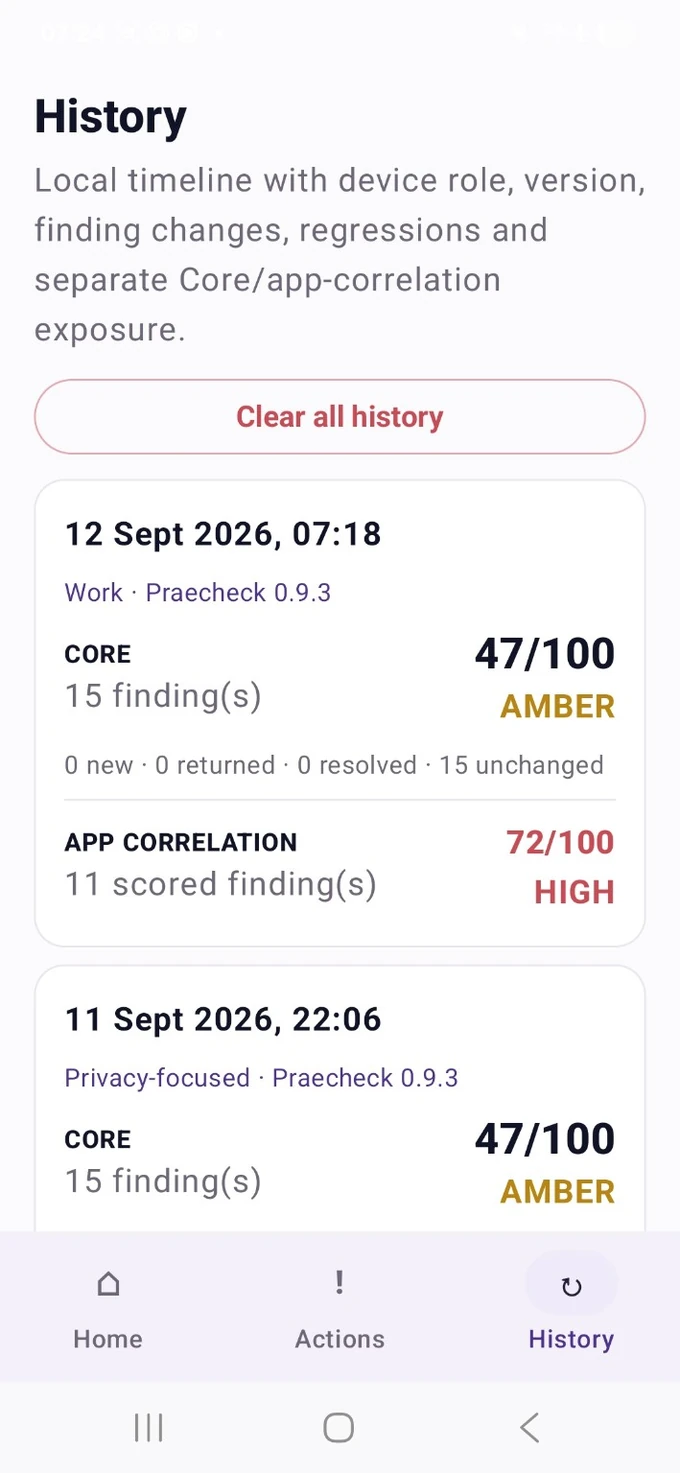
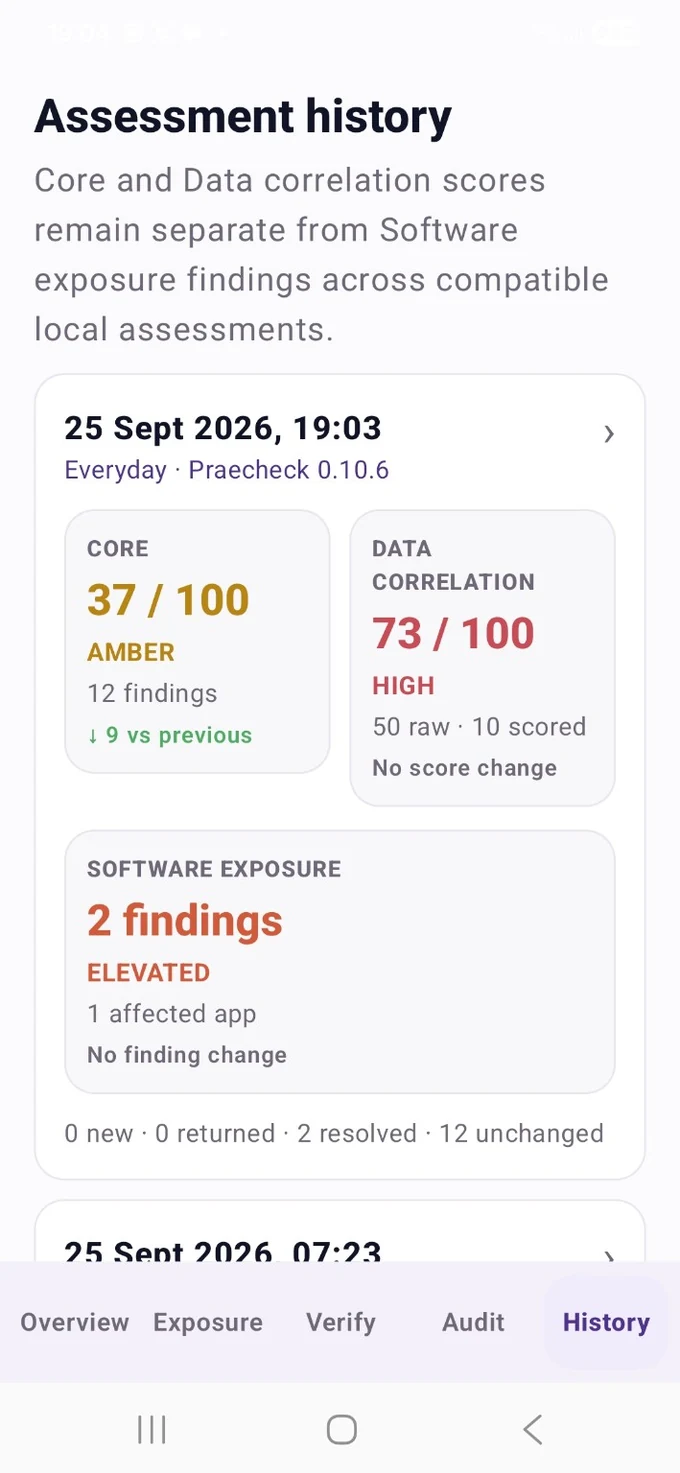
Refresh site for Praecheck v0.10.6

diff --git a/index.html b/index.html
@@ -4,7 +4,7 @@
   <meta charset="utf-8">
   <meta name="viewport" content="width=device-width,initial-scale=1">
   <title>Praecheck — Android data exposure assessment</title>
-  <meta name="description" content="See beyond permissions with Praecheck: offline Android assessment of current exposure, data-correlation potential and known embedded software risks.">
+  <meta name="description" content="See beyond permissions with Praecheck: offline Android assessment of current exposure, data-correlation potential and software exposure context.">
   <meta name="theme-color" content="#111426">
   <link rel="icon" href="favicon.svg" type="image/svg+xml">
   <link rel="stylesheet" href="styles.css">
@@ -69,8 +69,8 @@
 <div class="hero-copy">
 <div class="eyebrow">Offline Android data-exposure assessment</div>
 <h1>See beyond <span>permissions.</span></h1>
-<p class="lead">A permission tells you what an app may access. It does not show the full picture: embedded components can operate within that access, separate signals can become more revealing when combined, and installed libraries may carry known software risks.</p>
-<p class="hero-secondary">Praecheck gives you three separate views: <strong>Core exposure</strong>, <strong>Data correlation exposure</strong> and <strong>Known software risks</strong> — locally, without uploading your installed-app inventory or assessment results.</p>
+<p class="lead">A permission tells you what an app may access. It does not show the full picture: embedded components can operate within that access, separate signals can become more revealing when combined, and installed libraries can add conditional data-access paths or other software issues.</p>
+<p class="hero-secondary">Praecheck gives you three separate views: <strong>Core exposure</strong>, <strong>Data correlation exposure</strong> and <strong>Software exposure</strong> — locally, without uploading your installed-app inventory or assessment results.</p>
 <div class="actions hero-actions">
 <a class="btn btn-primary" href="#features">See what Praecheck checks</a>
 <a class="btn" href="#app-preview">Inspect interface</a>
@@ -80,7 +80,7 @@
 </div>
 <div class="hero-product-shot" aria-label="Praecheck assessment interface">
 <div class="product-shot-frame">
-<img src="assets/praecheck-overview.webp" alt="Praecheck assessment overview showing separate Core exposure, Data correlation exposure and Known software risk results" width="680" height="1473" fetchpriority="high" decoding="async">
+<img src="assets/praecheck-about.webp" alt="Praecheck 0.10.6 About screen showing local, offline and independent assessment design" width="680" height="1473" fetchpriority="high" decoding="async">
 </div>
 </div>
 </div>
@@ -120,51 +120,62 @@
       <div class="section-head app-preview-head">
         <div class="kicker">Assessment interface</div>
         <h2>From finding to context — without collapsing everything into one score.</h2>
-<p>Praecheck keeps current device state, correlation potential and known software-risk matches separate. Findings explain what was observed, what it could mean, what you can do and the technical evidence behind it.</p>
+<p>Praecheck keeps current device state, correlation potential and software exposure context separate. Findings explain what was observed, what it could mean, what you can do and the technical evidence behind it.</p>
       </div>
 
       <div class="screen-gallery" aria-label="Praecheck assessment interface screens">
         <article class="screen-showcase">
           <div class="screen-frame">
-            <img src="assets/praecheck-actions.webp" alt="Praecheck Actions screen showing the exposure queue and prioritised findings" width="680" height="1473" loading="lazy" decoding="async">
+            <img src="assets/praecheck-exposure.webp" alt="Praecheck Exposure screen showing compact per-app Data correlation findings and potential outcomes" width="680" height="1473" loading="lazy" decoding="async">
           </div>
           <div class="screen-caption">
-            <span class="screen-label">Prioritisation queue</span>
-            <h3>Exposure and verification are handled separately.</h3>
-            <p>The Actions view separates prioritised exposure findings from checks requiring user verification. Severity, score contribution and recommended action are presented together.</p>
+            <span class="screen-label">Exposure</span>
+            <h3>Risk first. App second. Reason third.</h3>
+            <p>Compact app findings show the contributing signals, potential outcome and score contribution, with deeper app exposure detail available on demand.</p>
           </div>
         </article>
 
         <article class="screen-showcase">
           <div class="screen-frame">
-            <img src="assets/praecheck-finding-detail.webp" alt="Praecheck finding detail showing recommended action, why the finding matters, evidence and confidence" width="680" height="1473" loading="lazy" decoding="async">
+            <img src="assets/praecheck-exposure-detail.webp" alt="Praecheck exposure detail showing declared capabilities, SDK indicators, evidence strength and interpretation limits" width="680" height="1473" loading="lazy" decoding="async">
           </div>
           <div class="screen-caption">
-            <span class="screen-label">Finding evidence</span>
-            <h3>Plain-English meaning first. Technical evidence when you want it.</h3>
-            <p>Finding detail surfaces <strong>What this means for you</strong> and <strong>What you can do</strong>, with technical evidence and confidence available underneath and direct access to relevant Android settings where supported.</p>
+            <span class="screen-label">Evidence on demand</span>
+            <h3>Capability is kept separate from proof of collection.</h3>
+            <p>Praecheck distinguishes granted access, declared capability and inferred SDK context, and states clearly when evidence does not establish collection, transmission, sale, sharing or commercial exposure.</p>
           </div>
         </article>
 
         <article class="screen-showcase">
           <div class="screen-frame">
-            <img src="assets/praecheck-app-correlation.webp" alt="Praecheck screen showing Data correlation exposure and the option to run deeper app correlation analysis" width="680" height="1473" loading="lazy" decoding="async">
+            <img src="assets/praecheck-verify.webp" alt="Praecheck Verify screen showing a guided user verification check and locally stored response controls" width="680" height="1473" loading="lazy" decoding="async">
           </div>
           <div class="screen-caption">
-            <span class="screen-label">Data correlation exposure</span>
-            <h3>Correlation potential is assessed independently.</h3>
-            <p>Static app and SDK analysis considers capabilities, possible association, profiling and enrichment value, including potential commercial or bulk-dataset usefulness if data were actually collected. It does not claim that a specific app collected, transmitted, sold or shared data without evidence.</p>
+            <span class="screen-label">Verify</span>
+            <h3>Checks Android cannot reliably expose are labelled for user verification.</h3>
+            <p>Guided checks keep user-supplied confirmation separate from machine-observed state. Verification responses remain local and are timestamped for later comparison.</p>
           </div>
         </article>
 
         <article class="screen-showcase">
           <div class="screen-frame">
-            <img src="assets/praecheck-history.webp" alt="Praecheck History screen showing dated assessments, device roles, Core scores and App correlation scores" width="680" height="1473" loading="lazy" decoding="async">
+            <img src="assets/praecheck-audit.webp" alt="Praecheck Technical audit showing verification filtering and user-supplied review state" width="680" height="1473" loading="lazy" decoding="async">
           </div>
           <div class="screen-caption">
-            <span class="screen-label">Longitudinal history</span>
-            <h3>Compatible assessments can be compared over time.</h3>
-            <p>Local history records device role, app and assessment-model versions, the independent assessment-domain results, and new, returned, resolved and unchanged findings.</p>
+            <span class="screen-label">Audit</span>
+            <h3>The complete evidence record remains available.</h3>
+            <p>Audit keeps observed risk, declared capability, verification, restricted coverage and pass records available without duplicating the main Verify workflow.</p>
+          </div>
+        </article>
+
+        <article class="screen-showcase">
+          <div class="screen-frame">
+            <img src="assets/praecheck-history.webp" alt="Praecheck 0.10.6 History screen showing Core, Data correlation and Software exposure results with assessment changes" width="680" height="1473" loading="lazy" decoding="async">
+          </div>
+          <div class="screen-caption">
+            <span class="screen-label">History</span>
+            <h3>Track what actually changed.</h3>
+            <p>Compatible local assessments show score movement, new, returned, resolved and unchanged findings, while incompatible assessment models start a new comparison baseline.</p>
           </div>
         </article>
       </div>
@@ -182,7 +193,7 @@
 <div class="grid-3">
 <article class="feature"><div class="feature-icon"><svg class="feature-svg" viewBox="0 0 24 24" aria-hidden="true" focusable="false" fill="none" stroke="currentColor" stroke-width="1.9" stroke-linecap="round" stroke-linejoin="round"><path d="M2.5 12s3.5-6 9.5-6 9.5 6 9.5 6-3.5 6-9.5 6-9.5-6-9.5-6Z"/><circle cx="12" cy="12" r="2.7"/></svg></div><h3>Core exposure</h3><p>Current, observable Android state and granted access — including permissions, special access, connectivity and device configuration relevant to exposure.</p></article>
 <article class="feature"><div class="feature-icon"><svg class="feature-svg" viewBox="0 0 24 24" aria-hidden="true" focusable="false" fill="none" stroke="currentColor" stroke-width="1.9" stroke-linecap="round" stroke-linejoin="round"><circle cx="6" cy="12" r="2.2"/><circle cx="17.5" cy="6" r="2.2"/><circle cx="17.5" cy="18" r="2.2"/><path d="M8 11l7.4-4M8 13l7.4 4"/></svg></div><h3>Data correlation exposure</h3><p>Installed-app and SDK capabilities that could support profiling, identity linkage, attribution or enrichment if relevant signals are actually collected and associated.</p></article>
-<article class="feature"><div class="feature-icon"><svg class="feature-svg" viewBox="0 0 24 24" aria-hidden="true" focusable="false" fill="none" stroke="currentColor" stroke-width="1.9" stroke-linecap="round" stroke-linejoin="round"><path d="M12 2.7 19 5.8v5.5c0 4.7-2.8 8.1-7 10-4.2-1.9-7-5.3-7-10V5.8L12 2.7Z"/><path d="M12 8v4.5"/><path d="M12 16h.01"/></svg></div><h3>Known software risks</h3><p>Exact embedded component versions matched against Praecheck's bundled offline advisory catalogue, with evidence, confidence and dataset-freshness context.</p></article>
+<article class="feature"><div class="feature-icon"><svg class="feature-svg" viewBox="0 0 24 24" aria-hidden="true" focusable="false" fill="none" stroke="currentColor" stroke-width="1.9" stroke-linecap="round" stroke-linejoin="round"><path d="M12 2.7 19 5.8v5.5c0 4.7-2.8 8.1-7 10-4.2-1.9-7-5.3-7-10V5.8L12 2.7Z"/><path d="M12 8v4.5"/><path d="M12 16h.01"/></svg></div><h3>Software exposure</h3><p>Exact embedded component versions are matched against Praecheck's bundled offline advisory catalogue, with conditional data-access paths kept separate from other software issues.</p></article>
 <article class="feature"><div class="feature-icon"><svg class="feature-svg" viewBox="0 0 24 24" aria-hidden="true" focusable="false" fill="none" stroke="currentColor" stroke-width="1.9" stroke-linecap="round" stroke-linejoin="round"><rect x="3.5" y="4" width="17" height="16" rx="3"/><path d="M8 9h8M8 13h5"/><path d="m15.5 16 1.5 1.5 3-3"/></svg></div><h3>Apps, permissions &amp; special access</h3><p>Review sensitive granted permissions, background access, app declarations and other locally visible characteristics worth checking.</p></article>
 <article class="feature"><div class="feature-icon"><svg class="feature-svg" viewBox="0 0 24 24" aria-hidden="true" focusable="false" fill="none" stroke="currentColor" stroke-width="1.9" stroke-linecap="round" stroke-linejoin="round"><path d="M4.4 9.5a11 11 0 0 1 15.2 0"/><path d="M7.6 12.8a6.5 6.5 0 0 1 8.8 0"/><path d="M10.7 16a2.1 2.1 0 0 1 2.6 0"/><circle cx="12" cy="19" r=".8" fill="currentColor" stroke="none"/></svg></div><h3>Connectivity &amp; relationships</h3><p>Review locally visible Wi-Fi, VPN, DNS, Bluetooth and nearby-device conditions that can add association or contextual exposure.</p></article>
 <article class="feature"><div class="feature-icon"><svg class="feature-svg" viewBox="0 0 24 24" aria-hidden="true" focusable="false" fill="none" stroke="currentColor" stroke-width="1.9" stroke-linecap="round" stroke-linejoin="round"><path d="M4 12a8 8 0 1 0 2.3-5.7"/><path d="M4 4v5h5"/><path d="M12 8v5"/><path d="m9.8 11.2 2.2 2.2 2.2-2.2"/><path d="M9 17h6"/></svg></div><h3>History, freshness &amp; export</h3><p>Compare compatible assessments, identify returned or resolved findings, see advisory freshness and export detailed evidence to CSV.</p></article>
@@ -272,7 +283,7 @@
           <div class="plan-summary">For one primary Android device and one additional personal device.</div>
           <ul class="ticklist">
             <li>Full Android data exposure assessment</li>
-            <li>Core exposure, Data correlation exposure and Known software risks</li>
+            <li>Core exposure, Data correlation exposure and Software exposure</li>
             <li>Changes, history and regression detection</li>
             <li>30 / 60 / 90-day recheck planning</li>
             <li>Device roles and version-aware comparisons</li>
@@ -312,10 +323,10 @@
     <div class="container">
       <div class="section-head"><div class="kicker">Technical notes</div><h2>Scope, independent domains and licensing.</h2></div>
       <div class="faq">
-        <details><summary>What is the assessment scope?</summary><p>Praecheck evaluates three independent domains: Core exposure from observed/current Android state and granted access; Data correlation exposure from app/SDK capabilities and potential association, profiling or enrichment value; and Known software risks from exact embedded component versions matched against offline security advisories. Findings include evidence context and practical actions where appropriate.</p></details>
+        <details><summary>What is the assessment scope?</summary><p>Praecheck evaluates three independent domains: Core exposure from observed/current Android state and granted access; Data correlation exposure from app/SDK capabilities and potential association, profiling or enrichment value; and Software exposure from exact embedded component versions matched against the bundled offline advisory catalogue. Findings include evidence context and practical actions where appropriate.</p></details>
         <details><summary>Does the production app transmit assessment data?</summary><p>No. The production Android app is designed to perform its assessment locally and does not request Android's INTERNET permission. Assessment results and history are stored on the device.</p></details>
         <details><summary>Is Praecheck a malware, spyware or compromise detector?</summary><p>No. Praecheck is a data exposure assessment tool. It does not claim to detect malware, spyware, surveillance actors or compromise.</p></details>
-        <details><summary>What do the three assessment domains mean?</summary><p>Core exposure prioritises observed/current Android state and granted access. Data correlation exposure separately assesses app/SDK capabilities and the potential usefulness of data combinations for association, profiling or enrichment if the data were actually collected. Known software risks separately identifies exact embedded component versions that match the offline advisory catalogue. The domains are independent and are not evidence that a phone is compromised or that a specific app sold, shared or transmitted data.</p></details>
+        <details><summary>What do the three assessment domains mean?</summary><p>Core exposure prioritises observed/current Android state and granted access. Data correlation exposure separately assesses app/SDK capabilities and the potential usefulness of data combinations for association, profiling or enrichment if the data were actually collected. Software exposure separately identifies exact embedded component versions that match the offline advisory catalogue, while distinguishing conditional data-access paths from other software issues. The domains are independent and are not evidence that a phone is compromised or that a specific app sold, shared or transmitted data.</p></details>
         <details><summary>Why are repeated assessments useful?</summary><p>Your exposure profile can change when you install or remove apps, change permissions, update Android, travel, change networks or use the device differently. Praecheck can compare compatible local assessments to show what changed.</p></details>
         <details><summary>How is assessment history retained?</summary><p>Assessment history, device role and recheck preferences are stored locally on the Android device. Praecheck keeps a bounded history of up to 50 assessments.</p></details>
         <details><summary>How do Personal and Power licences differ?</summary><p>Both include the same Praecheck features. Personal allows activation on up to 2 personal devices; Power allows activation on up to 10 personal devices. Power does not add business, consultant or resale rights.</p></details>

diff --git a/download/index.html b/download/index.html
@@ -9,8 +9,8 @@
 .verify-cards .feature code { color:#23283b; background:#f3f4f8; padding:.12rem .3rem; border-radius:.28rem; }
 .verify-cards .feature-icon { color:#5b3fd0; background:#f0ecff; }
 </style></head><body><header class="site-header"><div class="container nav"><a class="brand" href="/" aria-label="Praecheck home"><span class="logo">P</span><span>Praecheck</span></a><nav class="nav-links" aria-label="Main navigation"><a href="/#features">Assessment scope</a><a href="/#how">Method</a><a href="/#app-preview">Interface</a><a href="/#privacy">Privacy architecture</a><a href="/#pricing">Licensing</a><a href="/#faq">Technical notes</a><a class="nav-cta" href="/download/">Download</a></nav><button class="menu-toggle" type="button" aria-expanded="false" aria-controls="mobile-nav" aria-label="Open menu"><span></span><span></span><span></span><span class="menu-label">Menu</span></button></div><nav class="mobile-nav" id="mobile-nav" aria-label="Mobile navigation"><div class="container mobile-nav-inner"><a href="/#features">Assessment scope</a><a href="/#how">Method</a><a href="/#app-preview">Interface</a><a href="/#privacy">Privacy architecture</a><a href="/#pricing">Licensing</a><a href="/download/">Download</a><a href="/#faq">Technical notes</a><a href="../contact.html">Contact</a></div></nav></header><main>
-<section class="hero"><div class="container hero-grid"><div><div class="eyebrow">Android release</div><h1>Praecheck <span>v0.10.4.</span></h1><p class="lead">Official signed Android release. The production application performs assessment processing locally and does not request Android's INTERNET permission.</p><div class="actions"><a class="btn btn-primary" href="https://downloads.praescius.org.uk/Praecheck-v0.10.4.apk">Download APK</a><a class="btn" href="https://downloads.praescius.org.uk/Praecheck-v0.10.4.sha256">Download SHA-256 checksum</a></div><div class="trustline">Signed production APK · Published SHA-256 digest · Offline licence verification</div></div><div class="hero-card"><div class="hero-card-top"><div><div class="hero-card-title">Current release</div><div class="muted">Praecheck for Android</div></div><div class="badge">v0.10.4</div></div><div class="mini-findings"><div class="mini-row"><span>Release channel</span><strong>Production</strong></div><div class="mini-row"><span>Licence tiers</span><strong>Personal / Power</strong></div><div class="mini-row"><span>Updates included</span><strong>12 months</strong></div></div></div></div></section>
+<section class="hero"><div class="container hero-grid"><div><div class="eyebrow">Android release</div><h1>Praecheck <span>v0.10.6.</span></h1><p class="lead">Official signed Android release. The production application performs assessment processing locally and does not request Android's INTERNET permission.</p><div class="actions"><a class="btn btn-primary" href="https://downloads.praescius.org.uk/Praecheck-v0.10.6.apk">Download APK</a><a class="btn" href="https://downloads.praescius.org.uk/Praecheck-v0.10.6.sha256">Download SHA-256 checksum</a></div><div class="trustline">Signed production APK · Published SHA-256 digest · Offline licence verification</div></div><div class="hero-card"><div class="hero-card-top"><div><div class="hero-card-title">Current release</div><div class="muted">Praecheck for Android</div></div><div class="badge">v0.10.6</div></div><div class="mini-findings"><div class="mini-row"><span>Release channel</span><strong>Production</strong></div><div class="mini-row"><span>Licence tiers</span><strong>Personal / Power</strong></div><div class="mini-row"><span>Updates included</span><strong>12 months</strong></div></div></div></div></section>
 <section id="install"><div class="container"><div class="section-head"><div class="kicker">Installation and activation</div><h2>Install, license and activate.</h2><p>The signed APK may be downloaded before or after purchase. Licensed operation requires a valid signed Praecheck <code>.pcl</code> licence file.</p></div><div class="steps download-steps"><div class="step"><div class="step-num">1</div><h3>Install the signed APK</h3><p>Download the current production APK and install it on the Android device. Android may require installation permission for the browser or file manager used.</p></div><div class="step"><div class="step-num">2</div><h3>Purchase a licence</h3><p>Personal supports up to 2 personal devices; Power supports up to 10. Purchase availability and payment options are shown on the Praecheck pricing page.</p></div><div class="step"><div class="step-num">3</div><h3>Issue the offline licence</h3><p>Copy the Installation ID from Praecheck and submit it with the purchase reference provided for your order on the activation page to obtain the signed offline <code>.pcl</code> licence.</p></div></div><div class="actions" style="margin-top:24px"><a class="btn btn-primary" href="../activate/">Open activation page</a><a class="btn" href="/#pricing">Licence options</a></div></div></section>
-<section class="band"><div class="container"><div class="section-head"><div class="kicker">Release integrity</div><h2>Verify the published SHA-256 digest.</h2><p>The checksum provides an independent integrity check that the downloaded APK matches the published Praecheck release.</p></div><div class="grid-3 verify-cards"><article class="feature"><div class="feature-icon">1</div><h3>Windows</h3><p>Open PowerShell in the folder containing the APK and run <code>Get-FileHash .\Praecheck-v0.10.4.apk -Algorithm SHA256</code>. Compare the result with the downloaded checksum file.</p></article><article class="feature"><div class="feature-icon">2</div><h3>Android / Linux</h3><p>If you use Termux or Linux, keep the APK and checksum file in the same folder and run <code>sha256sum -c Praecheck-v0.10.4.sha256</code>. A matching file reports <strong>OK</strong>.</p></article><article class="feature"><div class="feature-icon">3</div><h3>Official distribution path</h3><p>Use the Praecheck download page and the <code>downloads.praescius.org.uk</code> release host. Checksum verification is available when independent file-integrity validation is required.</p></article></div></div></section>
-<section><div class="container"><div class="section-head"><div class="kicker">v0.10.4 release scope</div><h2>Three independent assessment domains, with local longitudinal context.</h2></div><div class="grid-3"><article class="feature"><h3>Core exposure</h3><p>Observed/current Android state and granted access are prioritised independently from inferred app capability.</p></article><article class="feature"><h3>Data correlation exposure</h3><p>App and SDK capabilities are assessed for possible association, profiling, enrichment and potential commercial or bulk-dataset usefulness if relevant data were actually collected.</p></article><article class="feature"><h3>Known software risks</h3><p>Exact embedded component versions are matched against the bundled offline advisory catalogue without assuming reachability or exploitation.</p></article><article class="feature"><h3>Bounded assessment history</h3><p>Retain a local timeline of up to 50 assessments with version and role context.</p></article><article class="feature"><h3>Version-aware comparison</h3><p>A changed assessment model starts a new comparison baseline rather than creating false device regressions.</p></article><article class="feature"><h3>Personal-use licensing</h3><p>The same assessment capabilities are available with 2-device Personal and 10-device Power licences.</p></article></div></div></section>
+<section class="band"><div class="container"><div class="section-head"><div class="kicker">Release integrity</div><h2>Verify the published SHA-256 digest.</h2><p>The checksum provides an independent integrity check that the downloaded APK matches the published Praecheck release.</p></div><div class="grid-3 verify-cards"><article class="feature"><div class="feature-icon">1</div><h3>Windows</h3><p>Open PowerShell in the folder containing the APK and run <code>Get-FileHash .\Praecheck-v0.10.6.apk -Algorithm SHA256</code>. Compare the result with the downloaded checksum file.</p></article><article class="feature"><div class="feature-icon">2</div><h3>Android / Linux</h3><p>If you use Termux or Linux, keep the APK and checksum file in the same folder and run <code>sha256sum -c Praecheck-v0.10.6.sha256</code>. A matching file reports <strong>OK</strong>.</p></article><article class="feature"><div class="feature-icon">3</div><h3>Official distribution path</h3><p>Use the Praecheck download page and the <code>downloads.praescius.org.uk</code> release host. Checksum verification is available when independent file-integrity validation is required.</p></article></div></div></section>
+<section><div class="container"><div class="section-head"><div class="kicker">v0.10.6 release scope</div><h2>Three independent assessment domains, with local longitudinal context.</h2></div><div class="grid-3"><article class="feature"><h3>Core exposure</h3><p>Observed/current Android state and granted access are prioritised independently from inferred app capability.</p></article><article class="feature"><h3>Data correlation exposure</h3><p>App and SDK capabilities are assessed for possible association, profiling, enrichment and potential commercial or bulk-dataset usefulness if relevant data were actually collected.</p></article><article class="feature"><h3>Software exposure</h3><p>Exact embedded component versions are matched against the bundled offline advisory catalogue. Conditional data-access paths and other software issues are kept separate, and a match does not by itself prove reachability, exploitation or routine bulk-data accessibility.</p></article><article class="feature"><h3>Bounded assessment history</h3><p>Retain a local timeline of up to 50 assessments with version and role context.</p></article><article class="feature"><h3>Version-aware comparison</h3><p>A changed assessment model starts a new comparison baseline rather than creating false device regressions.</p></article><article class="feature"><h3>Personal-use licensing</h3><p>The same assessment capabilities are available with 2-device Personal and 10-device Power licences.</p></article></div></div></section>
 </main><footer class="site-footer"><div class="container footer-grid"><div><strong>Praecheck</strong><br><span>Android data exposure assessment</span><br><span>© <span data-year></span> <span data-company>Praescius Ltd</span></span></div><div class="footer-links"><a href="../privacy.html">Privacy</a><a href="../terms.html">Terms</a><a href="../refunds.html">Refunds</a><a href="/download/">Download</a><a href="../contact.html">Contact</a></div></div></footer></body></html>
